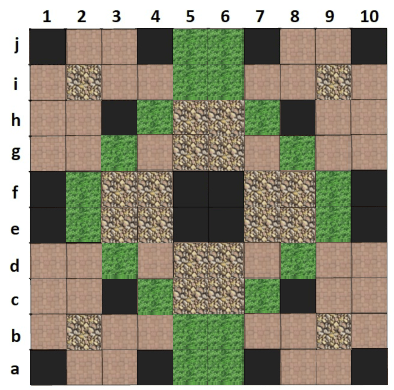
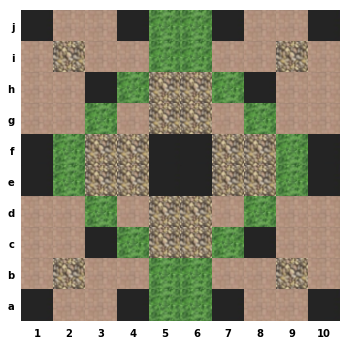
[Se integró el módulo de visualización de ruta en la interfaz]
Para llevar a cabo esta integración y tener una transición más fluida fue necesario cambiar las imagenes originales. Las viejas se encuentran en un folder de respaldo.

diff --git a/frame.py b/frame.py
@@ -1,10 +1,13 @@
-
 # Se importan las librerías necesarias
 from tkinter import *
 from tkinter import ttk, messagebox
+import matplotlib.pyplot as plt
+from matplotlib.backends.backend_tkagg import FigureCanvasTkAgg
+from PIL import Image
 from arbol import Nodo
 from mapas import Mapa
 from ambasBusquedas import Metodo_de_Busqueda
+from visualizador_ruta import mostrar_ruta_en_mapa
 
 
 class Mi_Interfaz(Frame):
@@ -18,6 +21,8 @@ class Mi_Interfaz(Frame):
         self.frame_3()
         self.frame_4()
         self.frame_5()
+        
+        self.canvas_widget = None # Atributo del Canvas
   
 #-------------------------------------------------------------------------#      
     def busquedaSolicitada(self, x):
@@ -27,14 +32,20 @@ class Mi_Interfaz(Frame):
 
         if mapa == 'Mapa 1':
             mapaSeleccionado = Mapa.mapa1
+            mapaTexturas = Mapa.mapa1Texturas
         elif mapa == 'Mapa 2':
             mapaSeleccionado = Mapa.mapa2
+            mapaTexturas = Mapa.mapa2Texturas
         elif mapa == 'Mapa 3':
             mapaSeleccionado = Mapa.mapa3
+            mapaTexturas = Mapa.mapa3Texturas
         elif mapa == 'Nuevo Mapa':
             mapaSeleccionado = Mapa.NuevoMapa
+            mapaTexturas = Mapa.mapaNuevoTexturas
         elif mapa == 'Mapa sin Solucion':
             mapaSeleccionado = Mapa.MapaSinSolucion
+            mapaTexturas = Mapa.mapaSinSolucionTexturas
+            
         #Código para los mensajes de error:
         valido1 = False
         valido2 = False
@@ -63,7 +74,18 @@ class Mi_Interfaz(Frame):
         resultado.append(inicio)
         resultado.reverse() 
         coste = str(nodo_solucion.get_coste())
-
+        
+        # Obtener la figura de la ruta
+        figura_ruta = mostrar_ruta_en_mapa(mapaTexturas, resultado)
+        if valido1 == True and valido2 == True:
+            if self.canvas_widget:
+                self.canvas_widget.destroy()
+        # Crear un widget de Canvas para la ruta
+            canvas = FigureCanvasTkAgg(figura_ruta, master=self)
+            self.canvas_widget = canvas.get_tk_widget()
+        # Colocar el canvas_widget
+            self.canvas_widget.place(in_=self.fondo1, x=53, y=-17)
+            
         #Código de diferentes cuadros de texto:
         cuadroParaMostrarOrigen = Entry(self.frame4)
         cuadroParaMostrarOrigen.place(x=165, y=5, width=30)
@@ -140,14 +162,19 @@ class Mi_Interfaz(Frame):
         self.lista_mapas = ttk.Combobox(self.frame1, width=15, state="readonly", values= self.opciones)
         self.lista_mapas.place(x= 150, y=415)
         self.lista_mapas.current(0)
+        self.canvas_widget = None
       
         self.fondo1 = Label(self.frame1, bg= "white")
         self.fondo1.place(x=15, y=15, width = 520, height= 380)
-
-
+        
         #Código que muestra la imagen del mapa seleccionado:
-            #Dentro de éste metodo es donde se debe agregar otra condición "elif" cuando se quiera agregar otra imagen de mapa.
+        #Dentro de éste metodo es donde se debe agregar otra condición "elif" cuando se quiera agregar otra imagen de mapa.
+
         def imagenDeFondo():
+            # Destruir el widget del lienzo existente, si hay
+            if self.canvas_widget:
+                self.canvas_widget.destroy()
+
             mapa = self.lista_mapas.get()
             if mapa == 'Mapa 1':
                 self.imagenSeleccionada = "imagenes/mapa1.png"
@@ -159,13 +186,11 @@ class Mi_Interfaz(Frame):
                 self.imagenSeleccionada = "imagenes/MapaNuevo.png"
             elif mapa == 'Mapa sin Solucion':
                 self.imagenSeleccionada = "imagenes/MapaSinSolucion.png"
-                
-        
-            self.fondo1_image = PhotoImage(file = self.imagenSeleccionada)
+
+            self.fondo1_image = PhotoImage(file=self.imagenSeleccionada)
             self.fondo1["image"] = self.fondo1_image
 
-
-        verMapa = Button(self.frame1, text="Ver", command= imagenDeFondo)
+        verMapa = Button(self.frame1, text="Ver", command=imagenDeFondo)
         verMapa.config(bg = "snow3", cursor= "hand2", bd=2)
         verMapa.place(x=300, y=410, width=70, height=27)
 

diff --git a/visualizador_ruta.py b/visualizador_ruta.py
@@ -6,7 +6,10 @@ import numpy as np
 def convertir_a_coordenadas(ruta, cant_filas):
     coordenadas = []
     for celda in ruta:
-        columna = int(celda[1]) - 1
+        if len(celda) >= 3:
+            columna = int(celda[1]+celda[2]) - 1
+        else:
+            columna = int(celda[1]) - 1
         fila = ord('a') - ord(celda[0]) + (cant_filas - 1)
         coordenadas.append([fila, columna])
     return coordenadas
@@ -23,8 +26,7 @@ def mostrar_ruta_en_mapa(mapa, ruta):
     }
 
     # Convertir el archivo en una matriz
-    matriz = [list(map(int, fila.strip()))
-              for fila in mapa.strip().split('\n')]
+    matriz = [list(map(int, fila.strip()))for fila in mapa.strip().split('\n')]
 
     # Calcular el número de filas y columnas
     n, m = len(matriz), len(matriz[0])
@@ -33,21 +35,25 @@ def mostrar_ruta_en_mapa(mapa, ruta):
     coordenadas = convertir_a_coordenadas(ruta, n)
 
     # Crear una figura y ejes
-    fig, ax = plt.subplots(figsize=(m, n))
-
-    # Dibujar la cuadrícula con las texturas y a la ruta asociada
+    fig, ax = plt.subplots(figsize=(5.7, 5.7))
+    
+    # Set del zoom 
+    zoomTextura = 1.7 if 8 > n >= 6 else (1.00 if n > 5 else 2.5)
+    zoomRuta = 1.2 if 8 > n >= 6 else (0.75 if n > 5 else 1.55)
+    
+    # Dibujar la cuadrícula con las texturas y la ruta asociada
     for i in range(m):
         for j in range(n):
             textura_file = texturas[matriz[j][i]]
             img = plt.imread(textura_file)
-            imagebox = OffsetImage(img, zoom=1.6)
+            imagebox = OffsetImage(img, zoom=zoomTextura)
             ab = AnnotationBbox(imagebox, (i, n - 1 - j), frameon=False)
             ax.add_artist(ab)
 
             if [j, i] in coordenadas:
                 textura_file = texturas['ruta']
                 img = plt.imread(textura_file)
-                imagebox = OffsetImage(img, zoom=1.00)
+                imagebox = OffsetImage(img, zoom=zoomRuta)
                 ab = AnnotationBbox(imagebox, (i, n - 1 - j), frameon=False)
                 ax.add_artist(ab)
 
@@ -71,27 +77,25 @@ def mostrar_ruta_en_mapa(mapa, ruta):
     plt.tick_params(axis='both', which='both', bottom=False, top=False,
                     labelbottom=True, left=False, right=False, labelleft=True)
 
-    # Mostrar el mapa
-    plt.show()
+    # Retornar la figura y el eje
+    return fig
+
 
 if __name__=="__main__":
     
     # Mapa de prueba
-    mapa = """
-        1111111111
-        1111111111
-        1111111111
-        1111111111
-        1002111111
-        1002111111
-        1112111111
-        1111111111
-        1111111111
-        1111111111
-        """
+    mapaNuevoTexturas ="""
+            1111
+            1002
+            1002
+            1112
+            """
     
     # Ruta de Prueba
-    ruta = ['a1', 'b1', 'c1', 'd1', 'd2', 'd3', 'd4', 'e4']
+    ruta = ['b1', 'c1', 'd1', 'd2', 'd3', 'd4']
     
     # Mostrar el mapa con la ruta
-    mostrar_ruta_en_mapa(mapa, ruta)
+    figura = mostrar_ruta_en_mapa(mapaNuevoTexturas, ruta)
+    
+    # Mostrar la figura
+    plt.show()

diff --git a/mapas.py b/mapas.py
@@ -16,6 +16,13 @@ class Mapa:
         'd4':{'d3':1, 'c4':2}
     }
     
+    mapa1Texturas ="""
+            1111
+            1002
+            1002
+            1112
+            """
+    
     mapa2 = {
         'a1':{'b1':1, 'a2':1},
         'a2':{'a1':1, 'a3':1},
@@ -43,6 +50,15 @@ class Mapa:
         'f4':{'f3':1, 'e4':1},        
         'f6':{'e6':1}
     }
+    
+    mapa2Texturas ="""
+            011101
+            110111
+            010002
+            111122
+            100201
+            111201
+            """
 
     mapa3 = {
         'a1':{'b1':1, 'a2':1},
@@ -116,6 +132,20 @@ class Mapa:
         'j9':{'j8':1, 'j10':1},
         'j10':{'j9':1, 'i10':2}
     }
+    
+    mapa3Texturas ="""
+            1001111111
+            1333310002
+            1100101302
+            1013331102
+            2111010112
+            2001002110
+            2301022010
+            1311020010
+            1300120011
+            1111133331
+            """
+    
     
     NuevoMapa = {
         'a2':{'a3':1, 'b2':3},
@@ -199,6 +229,19 @@ class Mapa:
         'j8':{'j9':1, 'i8':1},
         'j9':{'j8':1, 'i9':3}
     }
+    
+    mapaNuevoTexturas ="""
+            0110220110
+            1311221131
+            1102332011
+            1121331211
+            0233003320
+            0233003320
+            1121331211
+            1102332011
+            1311221131
+            0110220110
+            """
 
     MapaSinSolucion = {
         'j1': {'j2': 2, 'i1': 3},
@@ -274,6 +317,20 @@ class Mapa:
         'a7': {'b7': 2},
         'a9': {'b9': 2}
     }
+    
+    mapaSinSolucionTexturas ="""
+            1223100032
+            3232223201
+            1312321201
+            0023223322
+            1113020012
+            3303003333
+            1023033232
+            1200020210
+            2031202021
+            0230103030
+            """
+    
         
     
     f= open('Mapa_prueba.json')

diff --git a/generadorMapa.py b/generadorMapa.py
@@ -20,18 +20,25 @@ def generar_mapa_aleatorio(m, n):
     return mapa
 
 def crear_mapa():
-    mapa = """
-    02121
-    12212
-    00120
-    """
+    mapa ="""
+            0110220110
+            1311221131
+            1102332011
+            1121331211
+            0233003320
+            0233003320
+            1121331211
+            1102332011
+            1311221131
+            0110220110
+            """
     return mapa
 
 # Crear propio mapa
-#mapa = crear_mapa()
+mapa = crear_mapa()
 
 # Cargar mapa
-mapa = cargar_mapa("MapaSinSolucion.txt")
+#mapa = cargar_mapa("MapaSinSolucion.txt")
 
 # Mapa aleatorio
 #mapa = generar_mapa_aleatorio(10, 10)
